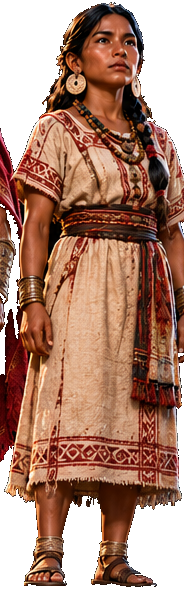
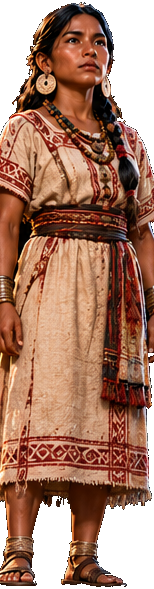
Recortes de mujer y niño sin fragmentos del vecino

diff --git a/tools/prepare_cutouts.py b/tools/prepare_cutouts.py
@@ -31,9 +31,9 @@ SOURCES: dict[str, tuple[str, tuple[int, int, int, int]]] = {
     "guardia_lider": ("npc_guardia_lider_fondo_negro.png", (0, 0, 0, 0)),
     "joven_guardia": ("npc_joven_guardia_fondo_negro.png", (14, 0, 0, 0)),
     "hombre": ("npc_hombre_fondo_negro.png", (0, 0, 0, 0)),
-    "mujer": ("npc_mujer_fondo_negro.png", (0, 0, 36, 0)),
+    "mujer": ("npc_mujer_fondo_negro.png", (30, 0, 36, 0)),
     "mujer_joven": ("npc_mujer_joven_fondo_negro.png", (0, 0, 22, 0)),
-    "nino": ("npc_nino_fondo_negro.png", (0, 0, 42, 0)),
+    "nino": ("npc_nino_fondo_negro.png", (24, 0, 42, 0)),
     "jaguar_acecho": ("jaguar_acecho_fondo_negro.png", (0, 0, 0, 0)),
     "jaguar_acecho_alt": ("jaguar_acecho_alternativo_fondo_negro.png", (30, 0, 0, 0)),
     "jaguar_ataque": ("jaguar_ataque_fondo_negro.png", (0, 0, 0, 0)),
